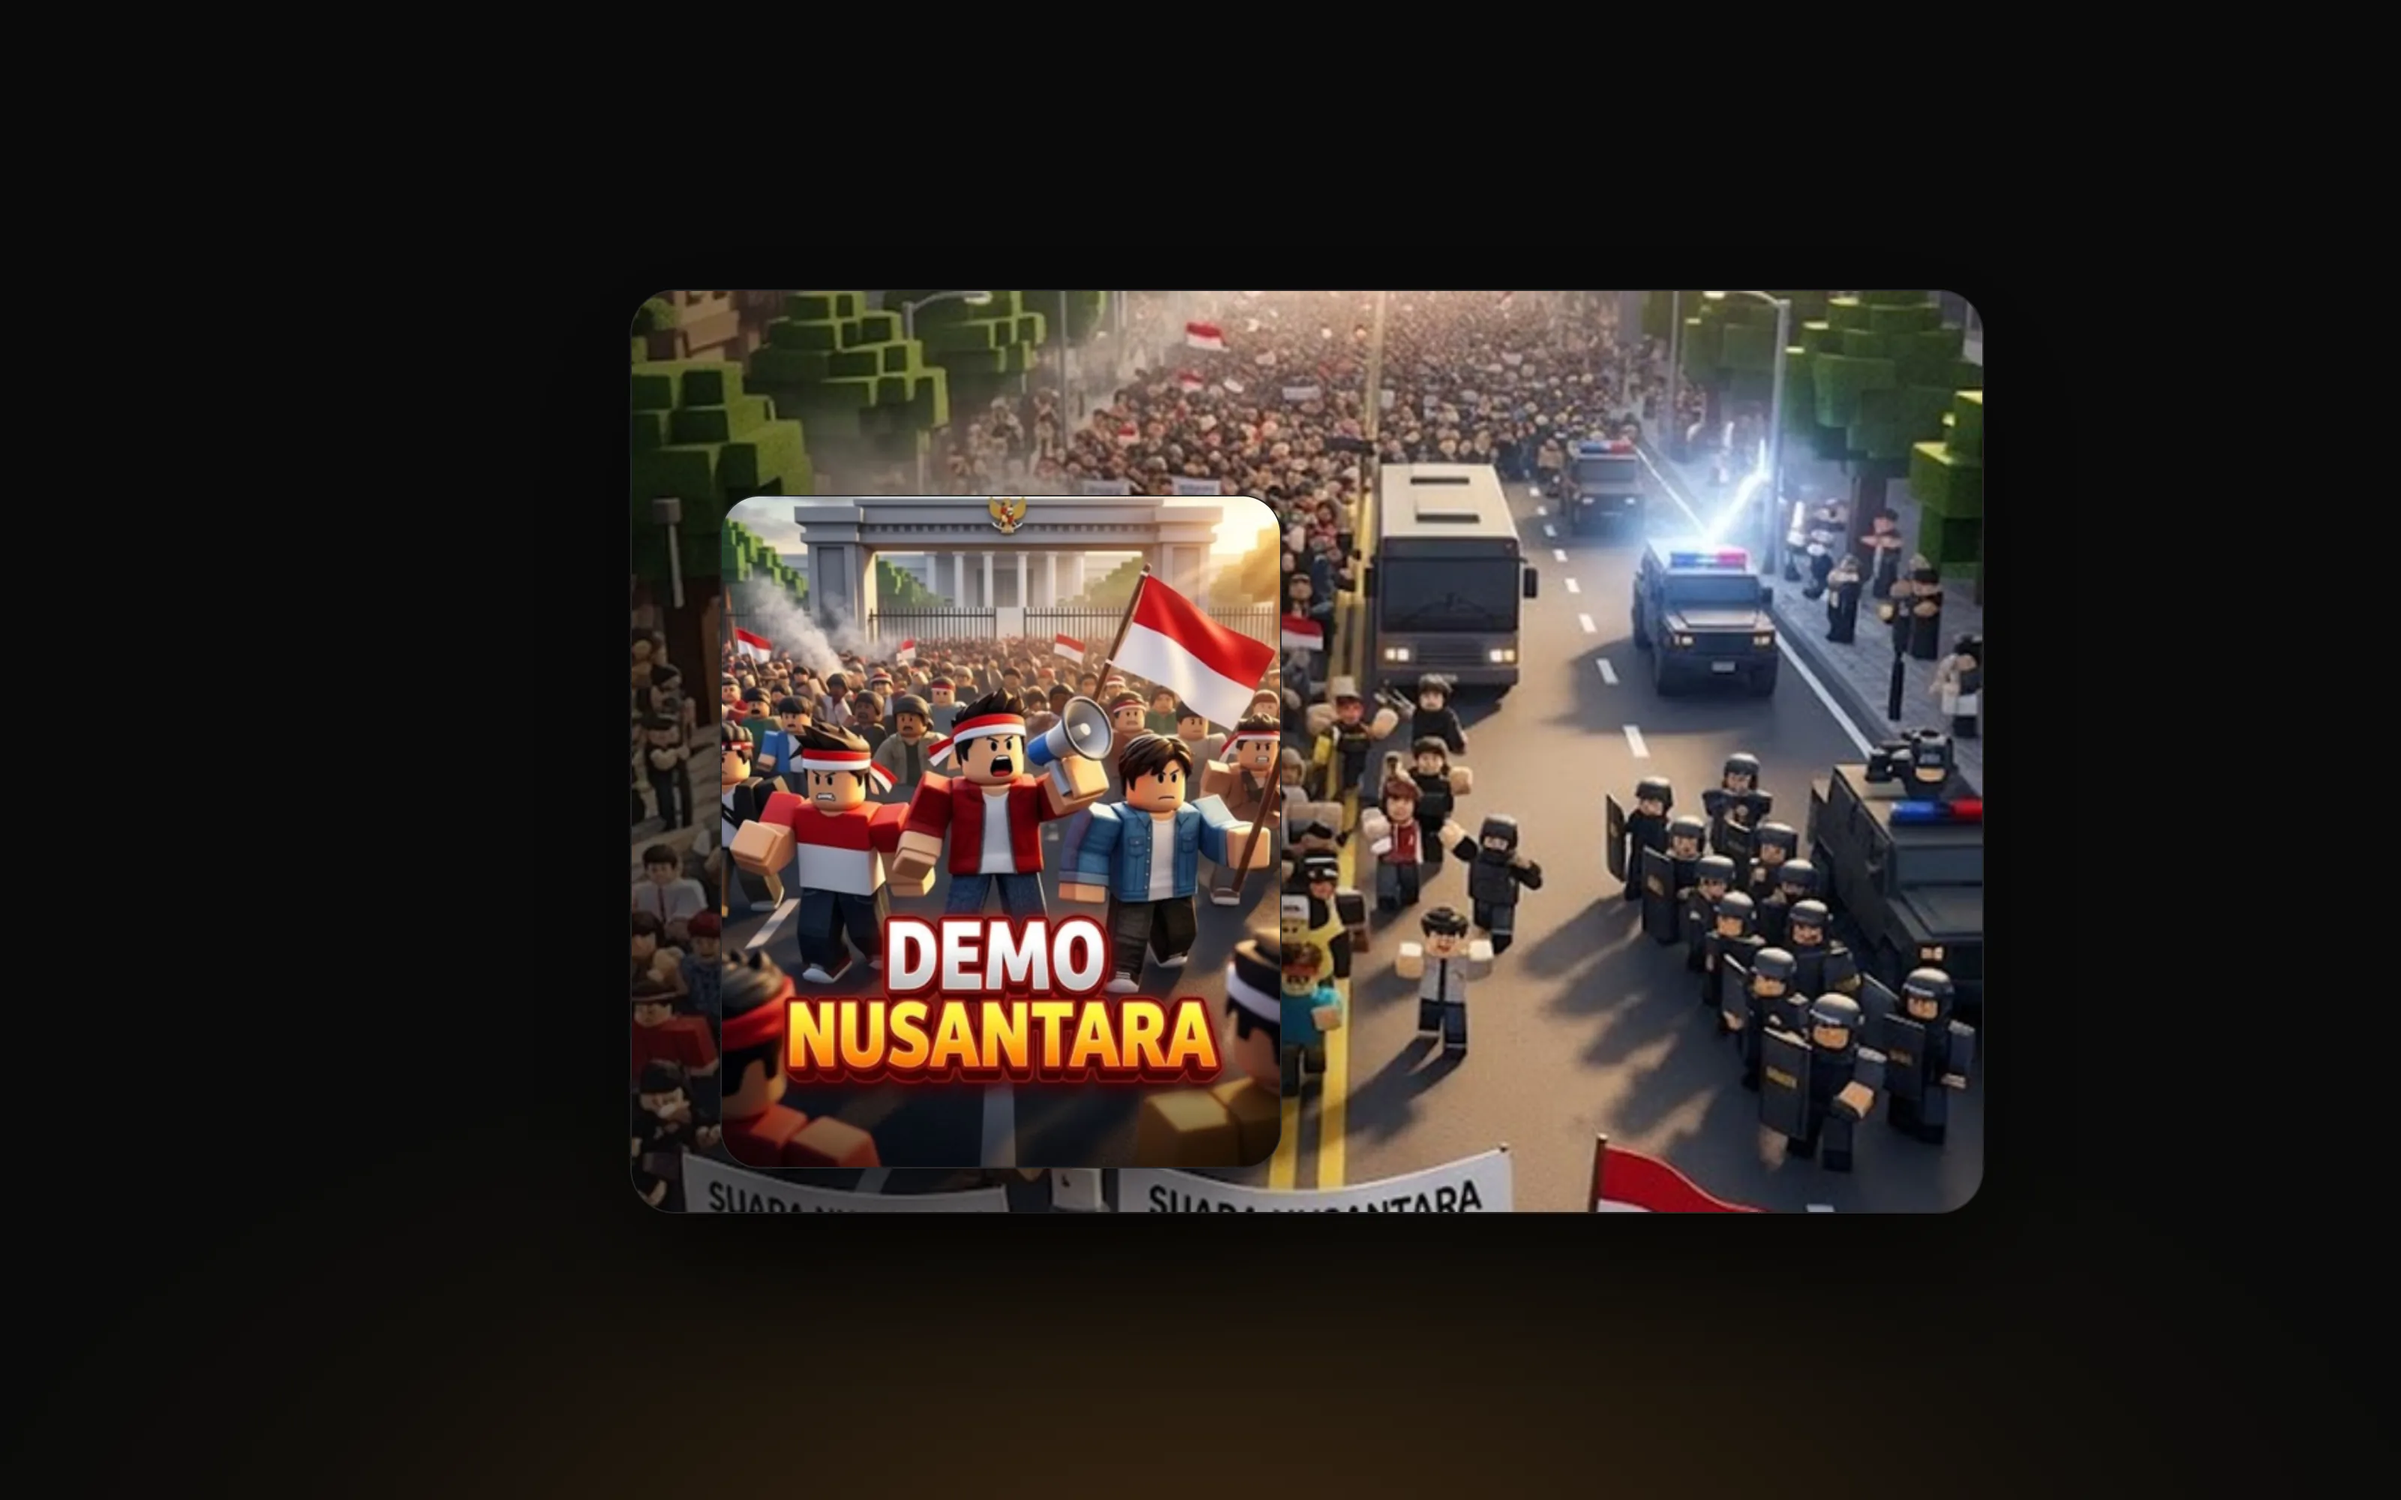
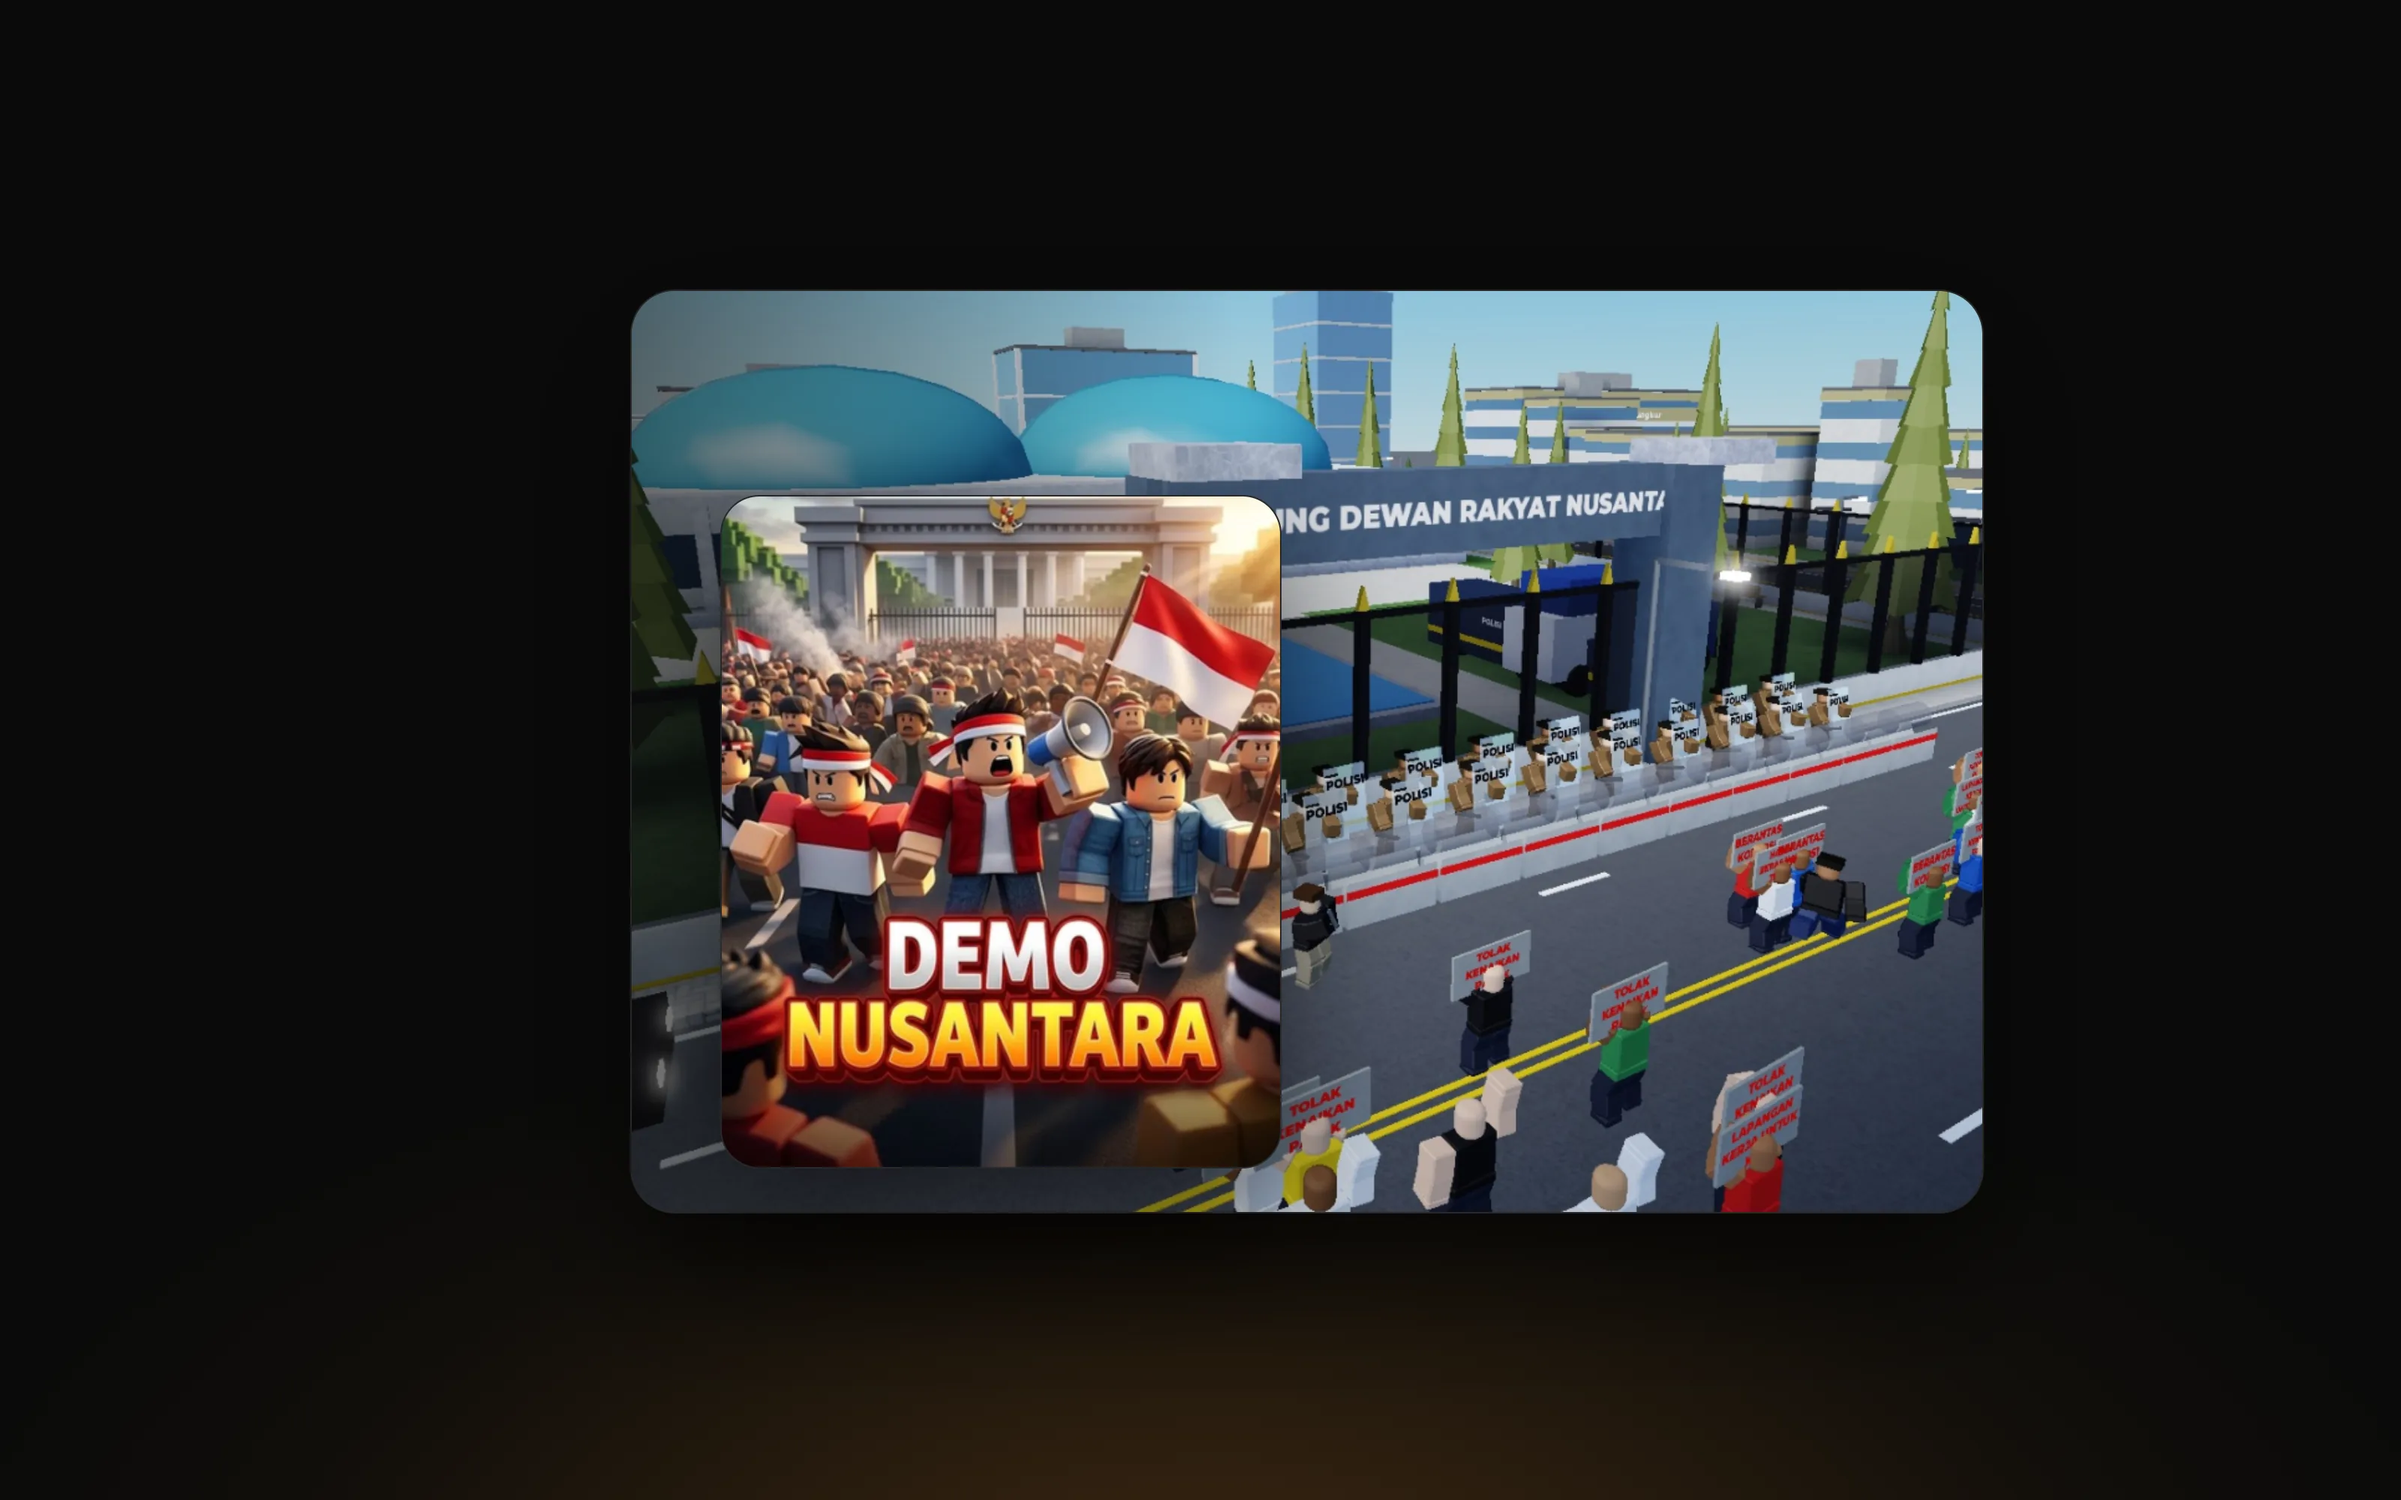
DEMO NUSANTARA: galeri 9 capture asli dari Roblox Studio
- Cover kini memakai adegan demo di depan gedung dewan (capture in-game) + poster
- Galeri: pilih peran, kota dari udara, monumen, bundaran siang/malam, demo, stadion, shelter ojol, dealer
- Deskripsi menyebut peran yang ada: karyawan, petani, ojol, mahasiswa

Claude-Session: https://claude.ai/code/session_01DzFUixTbcecAn7qSVLuGHK

Changed region(s): [[0.25, 0.186, 0.8438, 0.806]]

diff --git a/index.html b/index.html
@@ -131,6 +131,7 @@ ul, dl, dd { margin: 0; padding: 0; list-style: none; }
 .shot.phone img { width: 168px; height: auto; }
 .shot.wide span.frame { width: 480px; height: 300px; }
 .shot.wide img { width: 480px; height: auto; }
+.shot.game span.frame { background: #111; }
 .shot small { font-family: var(--mono); font-size: 0.72rem; letter-spacing: 0.03em; }
 .shot:hover span.frame { border-color: #55554e; }
 
@@ -426,23 +427,25 @@ form.msg { display: flex; flex-direction: column; gap: 14px; }
 
           <article class="proj" id="p-demo-nusantara">
             <figure class="proj-media">
-              <img src="assets/projects/demo-nusantara/cover.webp" alt="DEMO NUSANTARA: poster game dan thumbnail map roleplay di Roblox" loading="lazy" width="1600" height="1000">
+              <img src="assets/projects/demo-nusantara/cover.webp" alt="DEMO NUSANTARA: poster game dan adegan demo di depan gedung dewan di dalam map Roblox" loading="lazy" width="1600" height="1000">
               <span class="ph ph-name"><b>DEMO NUSANTARA</b><span class="mono">Game · Roblox</span></span>
             </figure>
             <div class="proj-body">
               <p class="mono proj-kind">Game · Roblox</p>
               <h3 class="proj-title">DEMO NUSANTARA</h3>
               <p class="proj-sub">Game developer perorangan · bersama Nurhikmal</p>
-              <p class="proj-desc">Map roleplay open world di Roblox bertema kota parodi Jakarta Pusat. Pemain memilih peran, berkeliling naik LRT, bus, angkot, atau ojol yang dibayar dengan koin, membeli kendaraan di dealer, dan menjelajah landmark seperti stadion dan monumen. Ada siklus siang dan malam, minimap, panel panduan, serta chat suara, dan semuanya bisa dimainkan di PC maupun HP.</p>
+              <p class="proj-desc">Map roleplay open world di Roblox bertema kota parodi Jakarta Pusat. Pemain memilih peran (karyawan, petani, ojol, atau mahasiswa), berkeliling naik LRT, bus, angkot, atau ojol yang dibayar dengan koin, membeli kendaraan di dealer, dan menjelajah landmark seperti stadion dan monumen. Ada siklus siang dan malam, minimap, panel panduan, serta chat suara, dan semuanya bisa dimainkan di PC maupun HP.</p>
               <dl class="proj-meta">
                 <div><dt>Periode</dt><dd>Nov 2026 – sekarang</dd></div>
                 <div><dt>Cakupan</dt><dd>Desain map, scripting Luau</dd></div>
               </dl>
               <ul class="tags"><li>Roblox Studio</li><li>Luau</li><li>Open world</li><li>Roleplay</li><li>PC &amp; HP</li></ul>
               <div class="proj-actions">
+                <button class="btn ghost small" type="button" data-gallery="demo-nusantara" aria-expanded="false" aria-controls="g-demo-nusantara">Lihat 9 layar</button>
                 <a class="btn ghost small" href="https://www.roblox.com/games/124659135664419/DEMO-NUSANTARA" target="_blank" rel="noopener">Main di Roblox ↗</a>
               </div>
             </div>
+            <div class="gallery" id="g-demo-nusantara" hidden></div>
           </article>
         </div>
       </div>
@@ -619,10 +622,11 @@ form.msg { display: flex; flex-direction: column; gap: 14px; }
     sensora: { kind: 'wide', note: 'Desain ulang UI · Okt 2026', files: ['01-masuk', '02-dasbor', '03-perangkat-grafik-data', '04-perangkat-tabel-data', '05-perangkat-pengaturan-gauge', '06-laporan-alarm', '07-rtu', '08-manajemen-pengguna'] },
     claire: { kind: 'phone', note: 'Tampilan aplikasi', files: ['02-beranda', '03-daftar-case', '04-detail-case', '05-case-baru', '06-laporan', '07-notifikasi', '08-akun'] },
     pencetin: { kind: 'phone', note: 'Desain ulang UI · Okt 2026', files: ['01-masuk', '02-beranda', '03-pengaturan-perangkat', '04-tambah-perangkat', '05-remote-ac', '06-bagikan-perangkat', '07-notifikasi', '08-profil-admin', '09-edit-profil', '10-ganti-password', '11-kelola-sinyal-ir-ac-admin'] },
-    joveli: { kind: 'phone', note: 'Desain ulang UI · Okt 2026', files: ['01-masuk', '02-beranda', '03-data-transaksi', '04-pembayaran', '05-laporan-keuangan', '06-akun', '07-pengguna-dan-cabang', '08-ganti-password'] }
+    joveli: { kind: 'phone', note: 'Desain ulang UI · Okt 2026', files: ['01-masuk', '02-beranda', '03-data-transaksi', '04-pembayaran', '05-laporan-keuangan', '06-akun', '07-pengguna-dan-cabang', '08-ganti-password'] },
+    'demo-nusantara': { kind: 'game', ext: 'jpg', note: 'Capture dari Roblox Studio · Nov 2026', files: ['01-pilih-peran', '02-kota-dari-udara', '03-monumen', '04-bundaran-siang', '05-bundaran-malam', '06-demo-gedung-dewan', '07-stadion-gelora', '08-shelter-ojol', '09-dealer-kendaraan'] }
   };
   const label = (f) => f.replace(/^\d+-/, '').replace(/-/g, ' ').replace(/^./, (c) => c.toUpperCase());
-  const src = (p, f) => 'assets/projects/' + p + '/screens/' + f + '.png';
+  const src = (p, f) => 'assets/projects/' + p + '/screens/' + f + '.' + (GALLERY[p].ext || 'png');
 
   // Jam WIB di header
   const clock = document.getElementById('clock');
